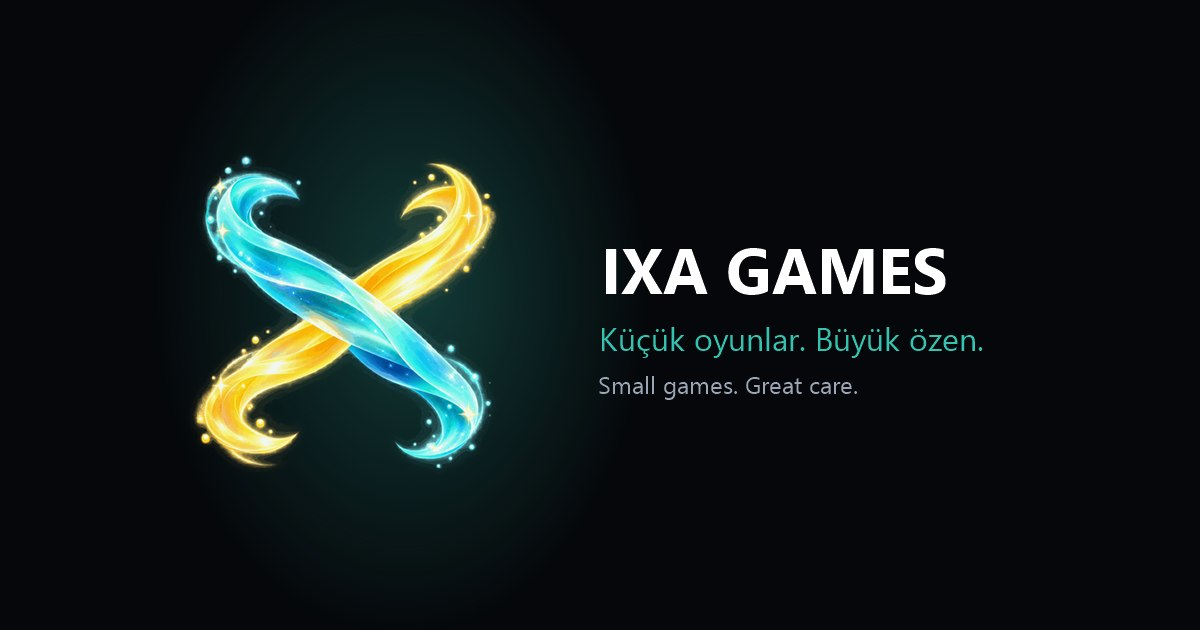
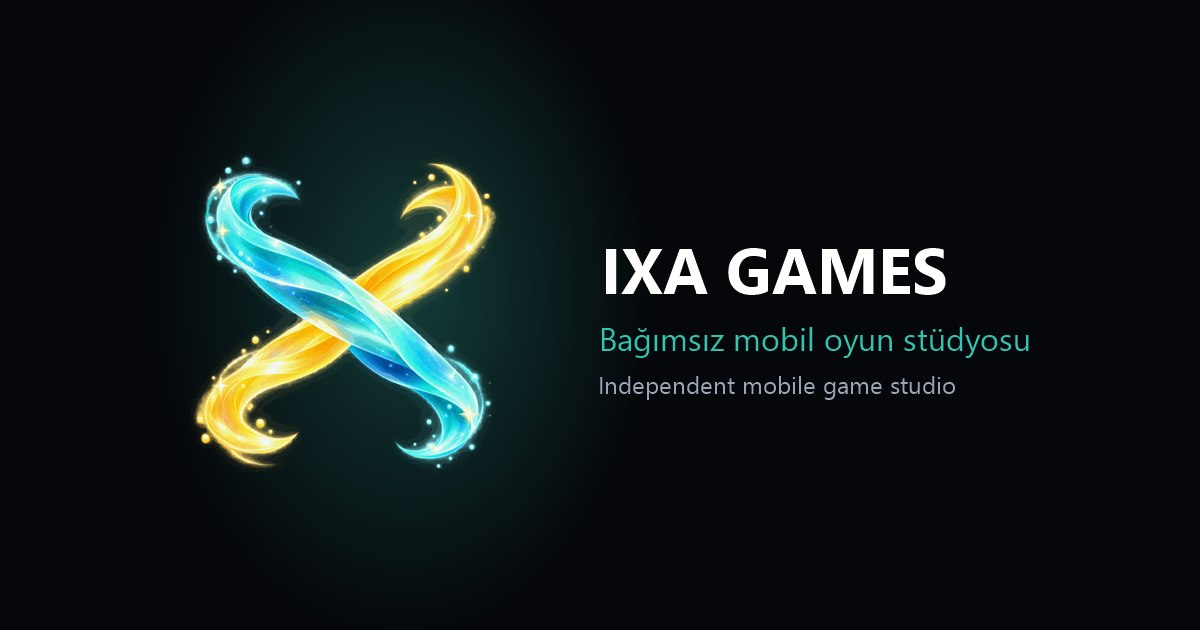
Sade baslik

Changed region(s): [[0.4933, 0.5127, 0.8633, 0.573], [0.4933, 0.6032, 0.8017, 0.6333]]

diff --git a/lang-en.js b/lang-en.js
@@ -1,11 +1,11 @@
 window.I18N_EN = {
-  '__title': 'Ixa Games — Small games, great care',
+  '__title': 'Ixa Games — Independent mobile game studio',
   'Ixa Games: Sözcük Ritmi, PitchTrace ve Aqua Toss gibi özenle yapılmış mobil oyunlar. Kapalı testlere katıl, oyunları ilk sen dene.': 'Ixa Games: carefully crafted mobile games like Sözcük Ritmi, PitchTrace and Aqua Toss. Join the closed tests and be the first to play.',
-  'Küçük oyunlar, büyük özen.': 'Small games, great care.',
+  'Bağımsız mobil oyun stüdyosu.': 'Independent mobile game studio.',
   'Oyunlar': 'Games', 'İlkelerimiz': 'Our principles', 'Teste katıl': 'Join the test', 'İletişim': 'Contact',
   'Ixa Games işareti': 'Ixa Games mark',
-  'Küçük oyunlar.': 'Small games.', 'Büyük özen.': 'Great care.',
-  'Hesap yok, gereksiz izin yok. Kendi çizdiğimiz, kendi bestelediğimiz mobil oyunlar.': 'No accounts, no unnecessary permissions. Mobile games we draw and compose ourselves.',
+  'Bağımsız mobil': 'Independent mobile', 'oyun stüdyosu.': 'game studio.',
+  'Sözcük Ritmi, PitchTrace ve Aqua Toss gibi oyunları kendimiz tasarlıyor, çiziyor ve besteliyoruz. Hesap açmanız gerekmez.': 'We design, draw and compose games like Sözcük Ritmi, PitchTrace and Aqua Toss ourselves. No account needed.',
   'Oyunlara göz at ↓': 'Browse the games ↓', 'Oyunlara göz at': 'Browse the games', 'Teste katıl ↓': 'Join the test ↓',
   'Oyunlarımız': 'Our games', 'Üç oyun, üç ayrı dünya': 'Three games, three different worlds',
   'Kapalı testte': 'In closed testing',

diff --git a/index.html b/index.html
@@ -3,10 +3,10 @@
 <head>
 <meta charset="utf-8">
 <meta name="viewport" content="width=device-width, initial-scale=1">
-<title>Ixa Games — Küçük oyunlar, büyük özen</title>
+<title>Ixa Games — Bağımsız mobil oyun stüdyosu</title>
 <meta name="description" content="Ixa Games: Sözcük Ritmi, PitchTrace ve Aqua Toss gibi özenle yapılmış mobil oyunlar. Kapalı testlere katıl, oyunları ilk sen dene.">
 <meta property="og:title" content="Ixa Games">
-<meta property="og:description" content="Küçük oyunlar, büyük özen.">
+<meta property="og:description" content="Bağımsız mobil oyun stüdyosu.">
 <meta property="og:type" content="website">
 <meta property="og:url" content="https://ixagames.github.io/">
 <meta property="og:image" content="https://ixagames.github.io/img/og.jpg">
@@ -116,8 +116,8 @@
 <header class="hero" id="top">
   <div class="wrap">
     <img class="mark" src="img/ixa_mark.png" alt="Ixa Games işareti">
-    <h1>Küçük oyunlar.<br><span>Büyük özen.</span></h1>
-    <p>Hesap yok, gereksiz izin yok. Kendi çizdiğimiz, kendi bestelediğimiz mobil oyunlar.</p>
+    <h1>Bağımsız mobil<br><span>oyun stüdyosu.</span></h1>
+    <p>Sözcük Ritmi, PitchTrace ve Aqua Toss gibi oyunları kendimiz tasarlıyor, çiziyor ve besteliyoruz. Hesap açmanız gerekmez.</p>
     <a class="btn fill" href="#test" style="--accent:#FFC93C">Teste katıl ↓</a> <a class="btn" href="#oyunlar">Oyunlara göz at</a>
   </div>
   <div class="scroll" aria-hidden="true"></div>
